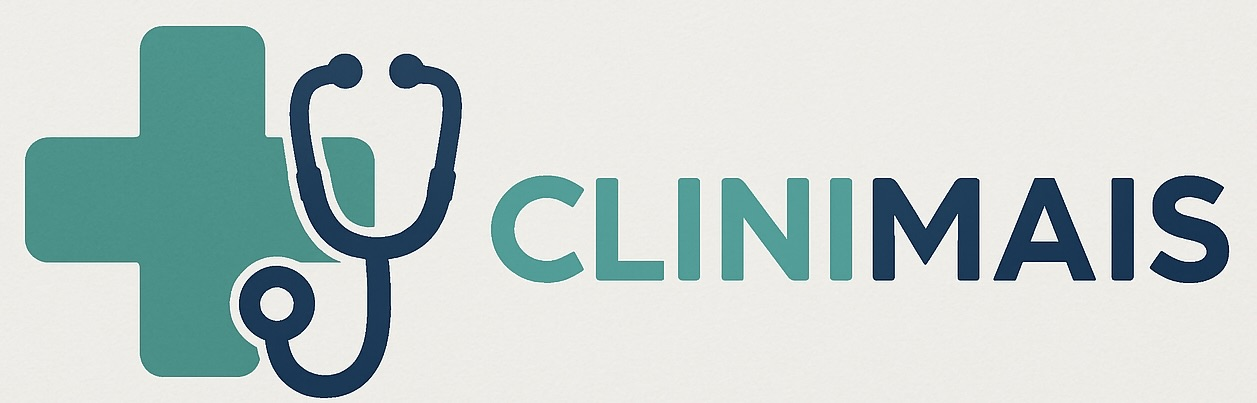
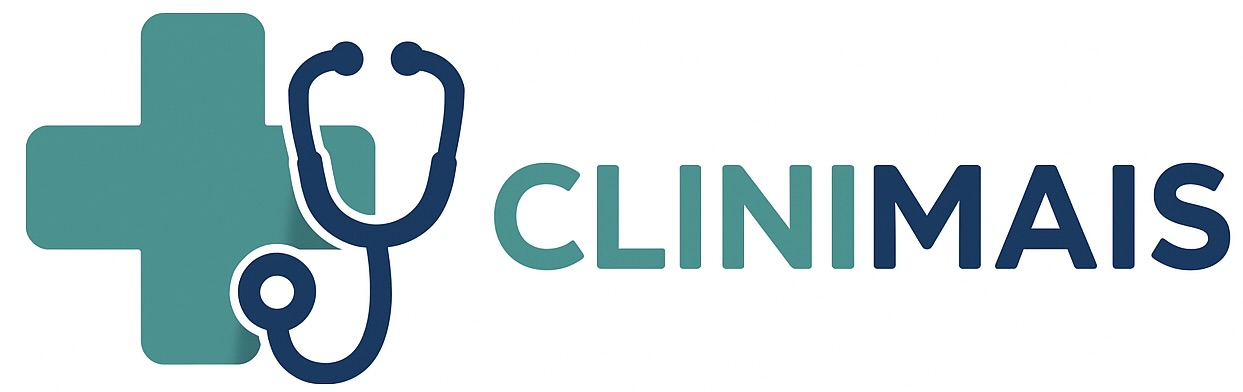
novas fotos

diff --git a/src/components/Sidebar.jsx b/src/components/Sidebar.jsx
@@ -19,18 +19,19 @@ export default function Sidebar({ open, onClose }) {
   const DrawerList = (
     <Box sx={{ width: 250 }} role="presentation" onClick={onClose}>
      
-      <Box sx={{ p: 1.5, fontWeight: 'bold', fontSize: 20}}>
+      <Box sx={{ p: 1.5, fontWeight: 'bold', fontSize: 20}} display="flex"> 
          <IconButton
             edge="start"
             color="inherit"
             aria-label="menu"
             onClick={onClose}
             sx={{ mr: 2, textAlign:'left'}}
+            style={{marginLeft: '12px', marginTop:'5px'}}
           >
             <MenuIcon />
           
       </IconButton>
-        <img src="src/assets/clinimais-horizontal.jpeg" alt="" style={{height:"50px", width:"120px"}}/>      
+        <img src="src/assets/clinimais-horizontal.jpeg" alt="" style={{height:"60%", width:"60%"}}/>      
         </Box>
       <Divider />
       <List>

diff --git a/src/App.jsx b/src/App.jsx
@@ -20,7 +20,7 @@ function App() {
 
   return (
     <Box sx={{ display: 'flex', flexDirection: 'column', minHeight: '100vh' }}>
-      <AppBar position="static">
+      <AppBar position="static" color="white">
         <Toolbar>
           <IconButton
             edge="start"
@@ -31,7 +31,7 @@ function App() {
           >
             <MenuIcon />
           </IconButton>
-          <Button color="inherit" component="a" href="/">CliniMais</Button>
+          <img src="src/assets/clinimais-horizontal.jpeg" alt="" style={{height:"10%", width:"10%"}}/>      
         </Toolbar>
       </AppBar>
       <Sidebar open={isSidebarOpen} onClose={handleToggleSidebar} />
